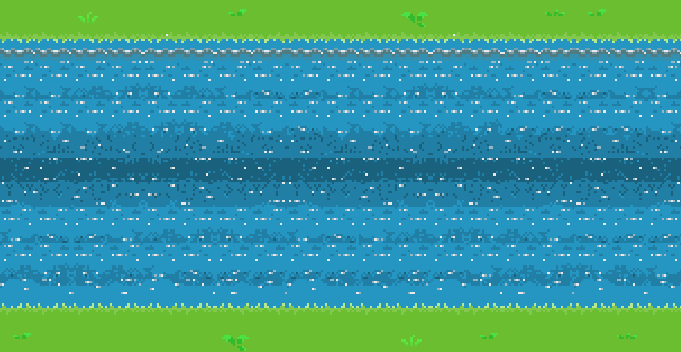
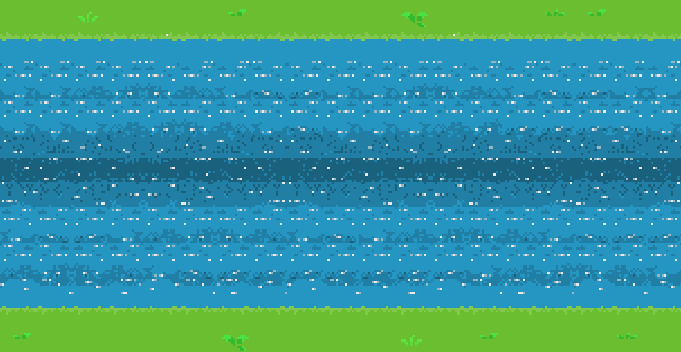
Fixed scrolling borders and sprite inconsistencies

diff --git a/Scripts/Game.cs b/Scripts/Game.cs
@@ -7,13 +7,22 @@ public partial class Game : Node2D
     public PackedScene Logs { get; set; }
     [Export]
     public float Speed { get; set; }
+    [Export]
+    public float LogSpeed { get; set; }
 
     private List<Node2D> obstacles = new();
+
+    private Boundary bottom;
+    private Boundary top;
+    private float boundaryPosition = 697f;
+    private bool _swapOne= true;
 
     private int Score = 0;
 
     public override void _Ready()
     {
+        top = GetNode<Boundary>("Boundaries/Top/");
+        bottom = GetNode<Boundary>("Boundaries/Bottom/");
         obstacles.Clear();
         var logTimer = GetNode<Timer>("LogTimer");
         logTimer.Timeout += createLogs;
@@ -22,9 +31,22 @@ public partial class Game : Node2D
 
     public override void _Process(double delta)
     {
+        boundaryPosition -= (Speed * (float)delta);
+        if (boundaryPosition >= 50)
+        {
+            bottom.Position = new Vector2(bottom.Position.X - Speed * (float)delta, bottom.Position.Y);
+            top.Position = new Vector2(top.Position.X - Speed * (float)delta, top.Position.Y);
+        }
+        else
+        {
+            top.InterchangePosition(_swapOne);
+            bottom.InterchangePosition(_swapOne);
+            _swapOne = !_swapOne;
+            boundaryPosition = 697f;
+        }
         for (int i = 0; i < obstacles.Count; i++)
         {
-            obstacles[i].Position = new Vector2(obstacles[i].Position.X - Speed * (float)delta, obstacles[i].Position.Y);
+            obstacles[i].Position = new Vector2(obstacles[i].Position.X - LogSpeed * (float)delta, obstacles[i].Position.Y);
             if (obstacles[i].Position.X < -250)
             {
                 obstacles[i].QueueFree();

diff --git a/Scripts/Boundary.cs b/Scripts/Boundary.cs
@@ -1,0 +1,31 @@
+using Godot;
+using System;
+
+public partial class Boundary : StaticBody2D
+{
+    private Sprite2D _sprite1;
+    private Sprite2D _sprite2;
+    // Called when the node enters the scene tree for the first time.
+    public override void _Ready()
+    {
+        _sprite1 = GetNode<Sprite2D>("First");
+        _sprite2 = GetNode<Sprite2D>("Second");
+    }
+
+    // Called every frame. 'delta' is the elapsed time since the previous frame.
+    public override void _Process(double delta)
+    {
+    }
+
+    public void InterchangePosition(bool sprite)
+    {
+        if (sprite == true)
+        {
+            _sprite1.Position = new Vector2(_sprite2.Position.X + 1361, _sprite1.Position.Y);
+        }
+        else if (sprite == false)
+        {
+            _sprite2.Position = new Vector2(_sprite1.Position.X + 1361, _sprite2.Position.Y);
+        }
+    }
+}
